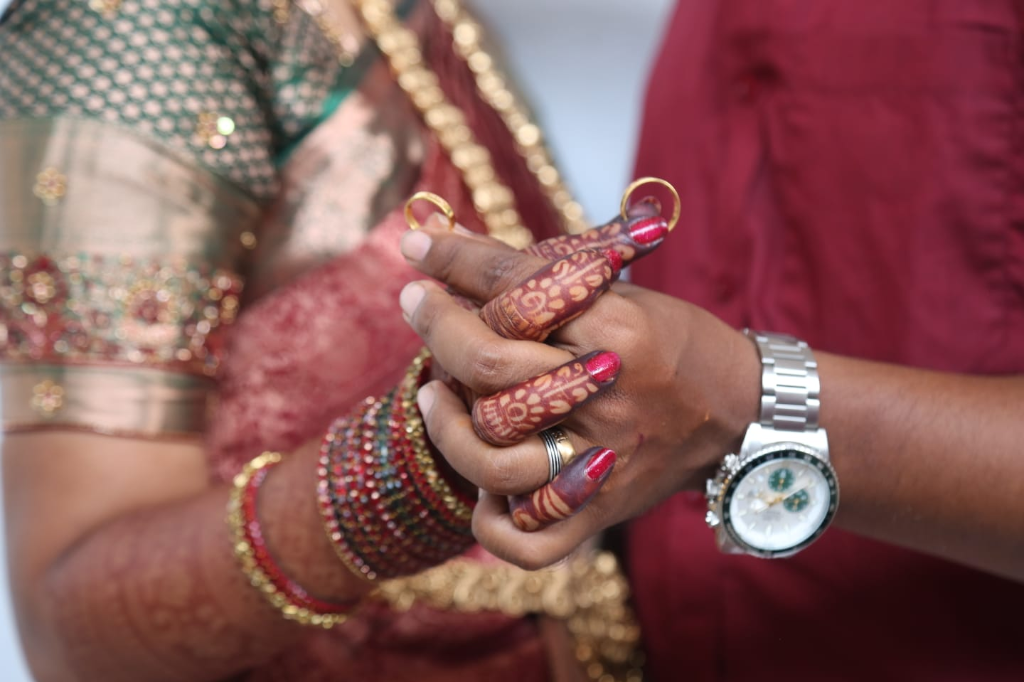
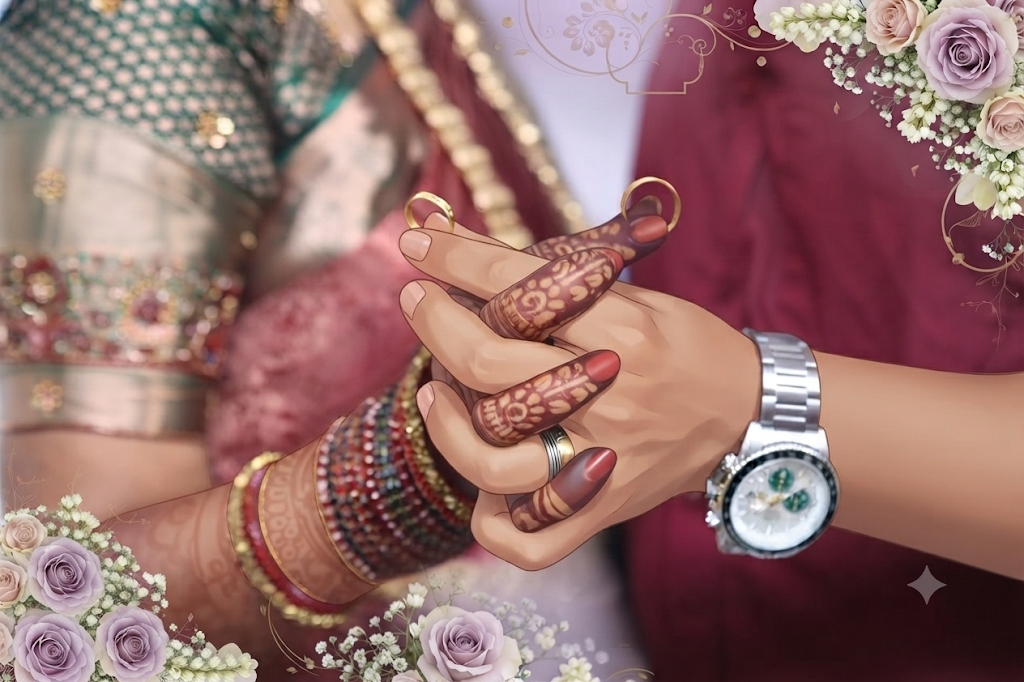
Replace couple-rings image with updated holding hands and wedding rings illustration

diff --git a/lavender-wedding-invitation/src/components/WeddingWelcome.jsx b/lavender-wedding-invitation/src/components/WeddingWelcome.jsx
@@ -58,7 +58,7 @@ export default function WeddingWelcome() {
           <div className="relative min-h-[240px] sm:min-h-[290px] md:min-h-full overflow-hidden bg-[#F7F1FB]">
             <img
               src="/images/couple-rings.png"
-              alt="Wedding Rings with Lavender Blossoms"
+              alt="Sasidharan &amp; Swetha - Holding Hands and Wedding Rings"
               className="w-full h-full object-cover object-center rounded-tr-[50px] sm:rounded-tr-[80px] md:rounded-tr-[100px] transition-transform duration-700 hover:scale-105"
             />
             {/* Soft atmospheric overlay */}
